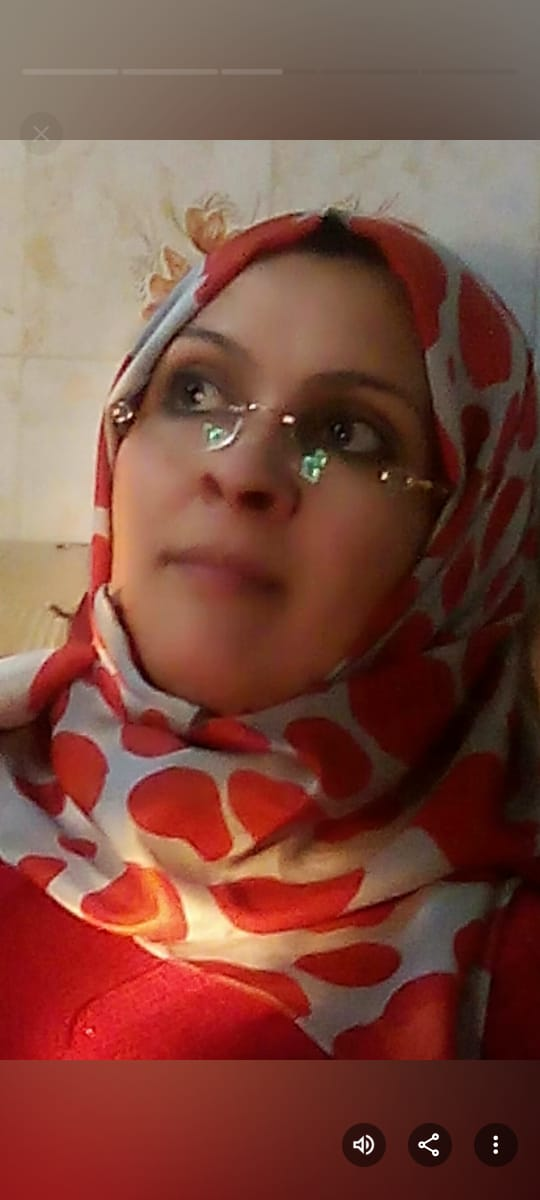
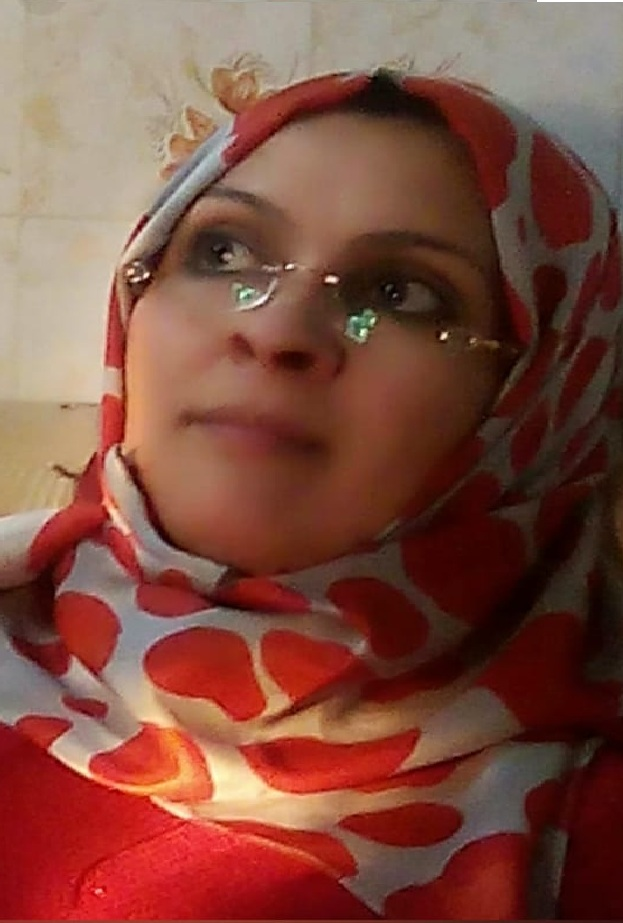
Add files via upload

diff --git a/index.html b/index.html
@@ -751,6 +751,20 @@
 				<li>Dr. Meriem MEDDEBER, Mustapha Stambouli University of Mascara, Algeria</li> 
 				<li>Dr. Fatima Zohra BENKEDDOUR, Higher Normal School of Oran, Algeria</li>
 			</ul></div>
+			
+			<br>
+			<div class="section-header">
+				<h3>Visibility and publicity  chairs</h3>
+				<!--<p>Here are some of our speakers</p>-->
+			</div>
+  
+			<div class="col-lg-6 col-md-8 mx-auto"><ul>
+				
+				
+				<li>Pr. Zohra LABED,Higher Normal School of Oran, Algeria</li> 
+				<li>Dr. Nawel ABDEREBI, Higher Normal School of Oran, Algeria</li> 
+				
+			</ul></div>
 			<br>
   
   
@@ -1597,7 +1611,13 @@
 
           <div class="col-lg-3 col-md-4 col-xs-6">
             <div class="sponsor-logo">
-              <img src="img/sponsors/univ-mascara.png" class="img-fluid" alt="" style="max-width:130px; max-height:100px">
+              <img src="img/sponsors/enso.jpg" class="img-fluid" alt="" style="max-width:130px; max-height:100px">
+            </div>
+          </div>
+		  
+		  <div class="col-lg-3 col-md-4 col-xs-6">
+            <div class="sponsor-logo">
+              <img src="img/sponsors/log_univ-mascara.png" class="img-fluid" alt="" style="max-width:130px; max-height:100px">
             </div>
           </div>
           
@@ -1612,20 +1632,15 @@
               <img src="img/sponsors/lio.png" class="img-fluid" alt="" style="max-width:130px; max-height:100px">
             </div>
           </div>
-          <div class="col-lg-3 col-md-4 col-xs-6">
-            <div class="sponsor-logo">
-              <img src="img/sponsors/enso.jpg" class="img-fluid" alt="">
-            </div>
-          </div>
           
           <div class="col-lg-3 col-md-4 col-xs-6">
             <div class="sponsor-logo">
-              <img src="" class="img-fluid" alt="">
+              <img src="img/sponsors/regim_lab_tn.png" class="img-fluid" alt=""style="max-width:130px; max-height:100px">
             </div>
           </div>
           <div class="col-lg-3 col-md-4 col-xs-6">
             <div class="sponsor-logo">
-              <img src="" class="img-fluid" alt="" style="max-width:130px; max-height:100px">
+              <img src="img/sponsors/sfax_univ_tn.png" class="img-fluid" alt="" style="max-width:130px; max-height:100px">
             </div>
           </div>
           
